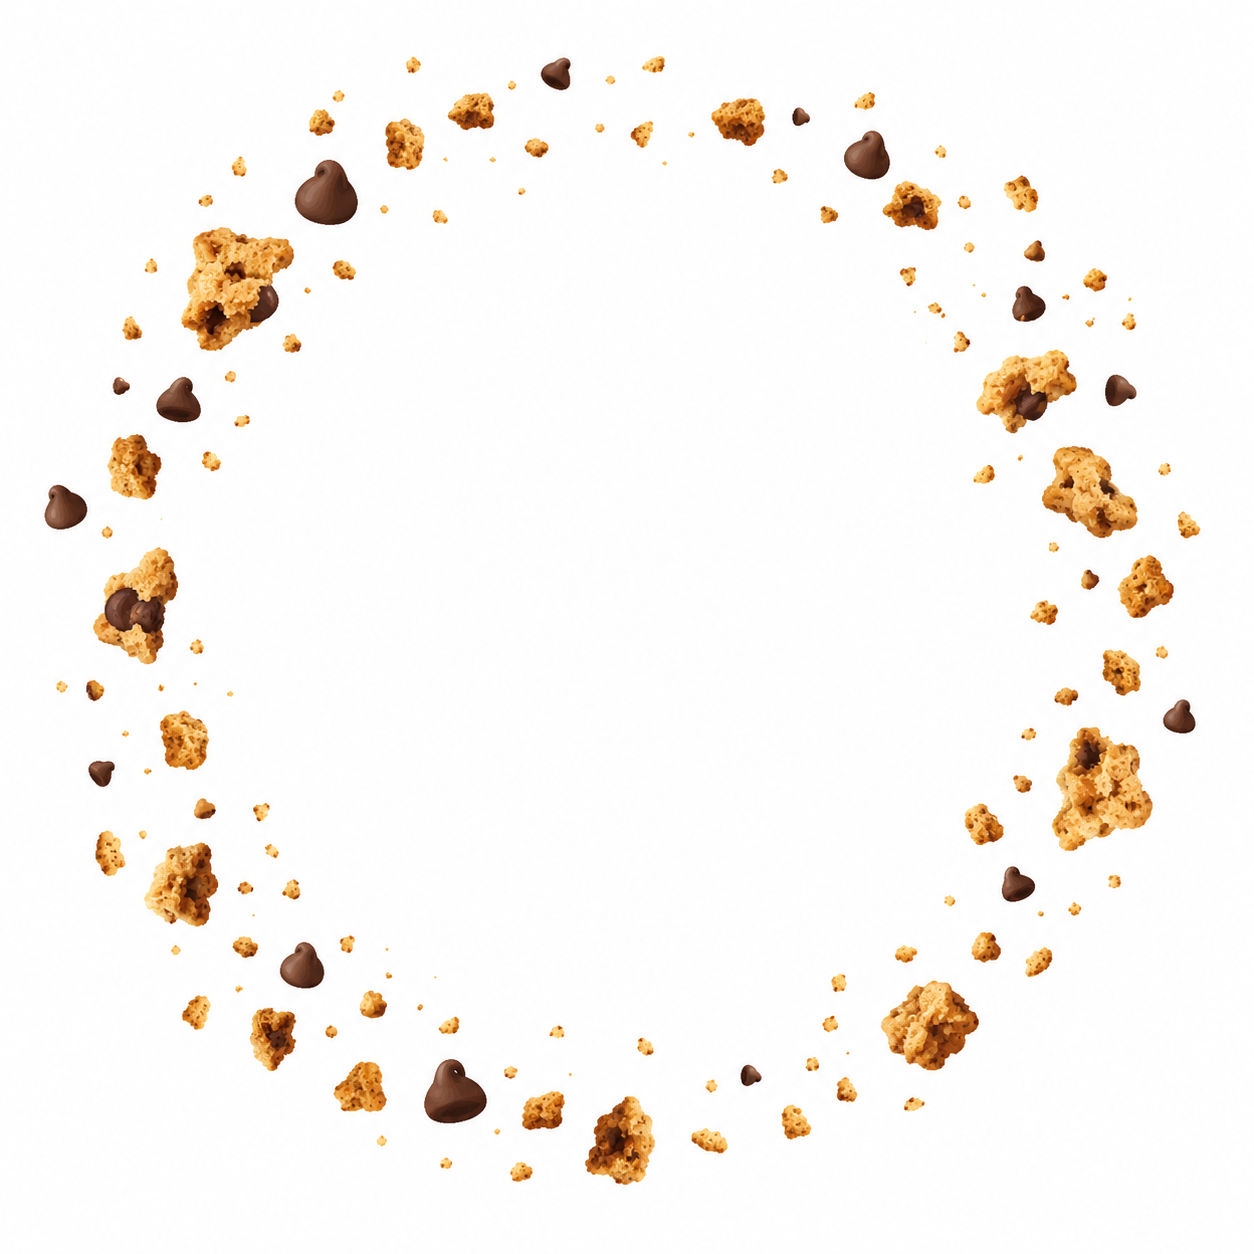
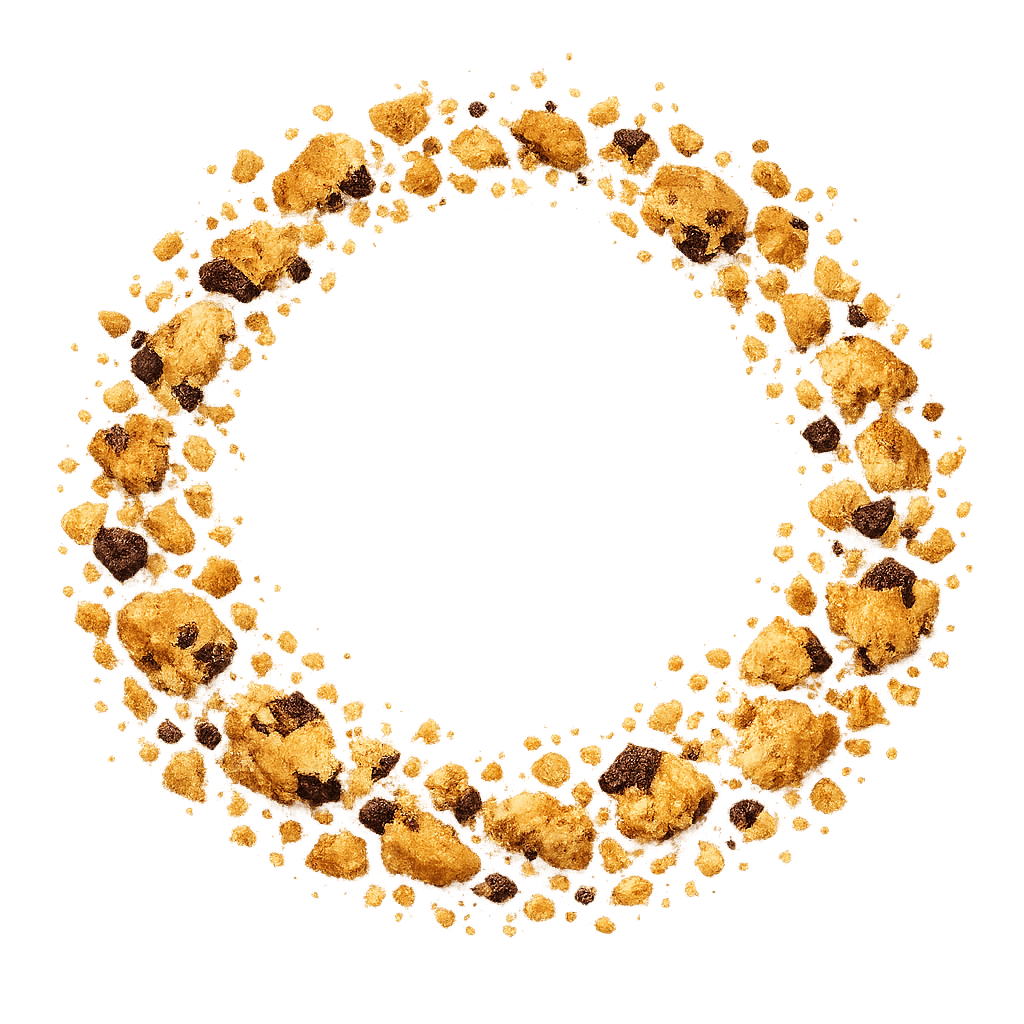
Updated

Changed region(s): [[0.0312, 0.0312, 0.9688, 0.9375], [0.3125, 0.0312, 0.3438, 0.0625], [0.0938, 0.1875, 0.125, 0.2188]]

diff --git a/index.html b/index.html
@@ -547,6 +547,30 @@
 	<script src='https://unpkg.com/lenis@1.3.4/dist/lenis.min.js'></script>
 	<script type="module" src="./script.js?v=2"></script>
 
+	<script>
+		// Force the scroll to top button to the requested colors (targets the injected preview script button)
+		window.addEventListener('load', () => {
+			setTimeout(() => {
+				document.querySelectorAll('div, a, button').forEach(el => {
+					const style = window.getComputedStyle(el);
+					// Identify the circular scroll-to-top button in the bottom corner
+					if (style.position === 'fixed' && parseInt(style.bottom) < 100 && (style.borderRadius === '50%' || style.borderRadius.includes('px'))) {
+						// Only target if it looks like the pink button or is clearly a floating action button
+						if (el.innerHTML.includes('svg') || el.innerHTML.includes('↑') || style.backgroundColor.includes('rgb(255')) {
+							el.style.setProperty('background-color', '#f6ece3', 'important');
+							el.style.setProperty('background', '#f6ece3', 'important');
+							const svgs = el.querySelectorAll('svg');
+							svgs.forEach(svg => {
+								svg.style.setProperty('stroke', '#3d2314', 'important');
+							});
+							const paths = el.querySelectorAll('path, polyline');
+							paths.forEach(p => p.style.setProperty('stroke', '#3d2314', 'important'));
+						}
+					}
+				});
+			}, 1000);
+		});
+	</script>
 </body>
 
 </html>

diff --git a/style.css b/style.css
@@ -543,6 +543,7 @@ body.menu-open .header {
 	font-weight: 400;
 	color: #cf9e7c;
 	z-index: 102;
+
 }
 
 .hero__second-text {
@@ -1064,6 +1065,19 @@ body.menu-open .header {
 	display: flex;
 	gap: 30px;
 	flex-direction: row;
+}
+
+/* Scroll to Top Button Override */
+.back-to-top, .scroll-to-top, .scroll-up, .scrollToTop, .go-top, .bato-back-to-top, .to-top, #backToTop, #scrollToTop {
+    background-color: #f6ece3 !important;
+}
+.back-to-top svg path, .scroll-to-top svg path, .scroll-up svg path, .scrollToTop svg path, .go-top svg path, .bato-back-to-top svg path, .to-top svg path, #backToTop svg path, #scrollToTop svg path {
+    stroke: #3d2314 !important;
+    fill: none !important;
+}
+.back-to-top svg polyline, .scroll-to-top svg polyline, .scroll-up svg polyline, .scrollToTop svg polyline, .go-top svg polyline, .bato-back-to-top svg polyline, .to-top svg polyline, #backToTop svg polyline, #scrollToTop svg polyline {
+    stroke: #3d2314 !important;
+    fill: none !important;
 }
 
 .quality__feature {

diff --git a/script.js b/script.js
@@ -280,9 +280,9 @@ const setupGsapAnimations = (model) => {
 			z: () => (window.innerWidth >= 1440 ? 1 : (window.innerWidth >= 1024 ? 0.8 : (window.innerWidth >= 768 ? 0.7 : (window.innerWidth >= 575 ? 0.6 : 0.5)))) * 1.6,
 			duration: 0.5
 		})
-		.fromTo(".flip__splash-container", { scale: 1.5, opacity: 0 }, { scale: 0.9, opacity: 1, duration: 0.5 }, "<")
+		.fromTo(".flip__splash-container", { scale: 0.5, opacity: 0 }, { scale: 1.1, opacity: 1, duration: 0.5 }, "<")
 		.to(modelContainer, { y: "5vh", duration: 0.5 }, "<")
-		.to(model.rotation, { y: Math.PI * 4.5, duration: 0.5 }, "<");
+		.to(model.rotation, { y: Math.PI * 4, duration: 0.5 }, "<");
 
 	// Steps Section Animations
 